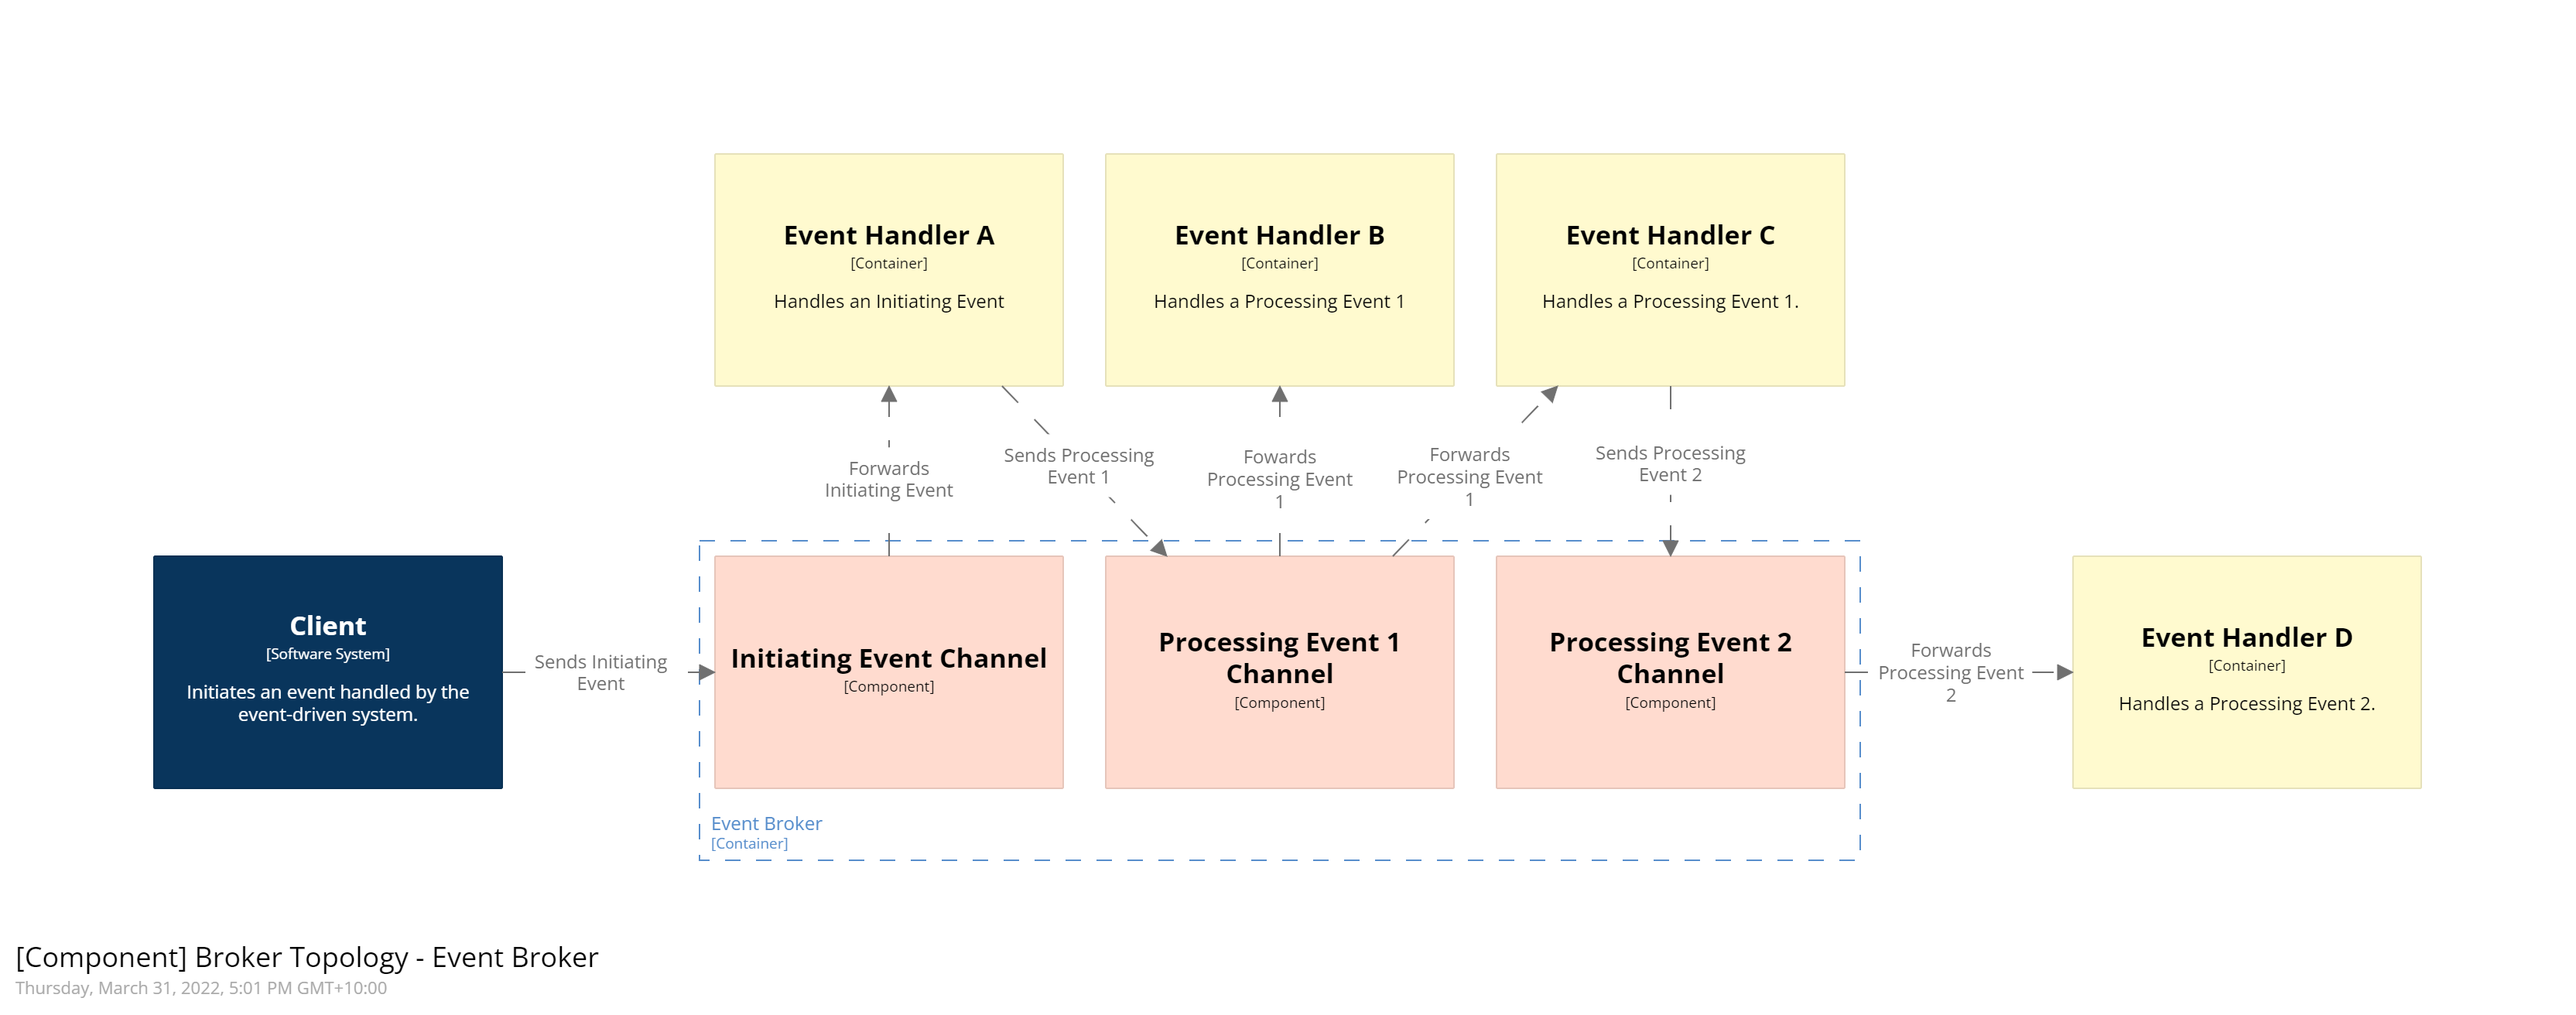
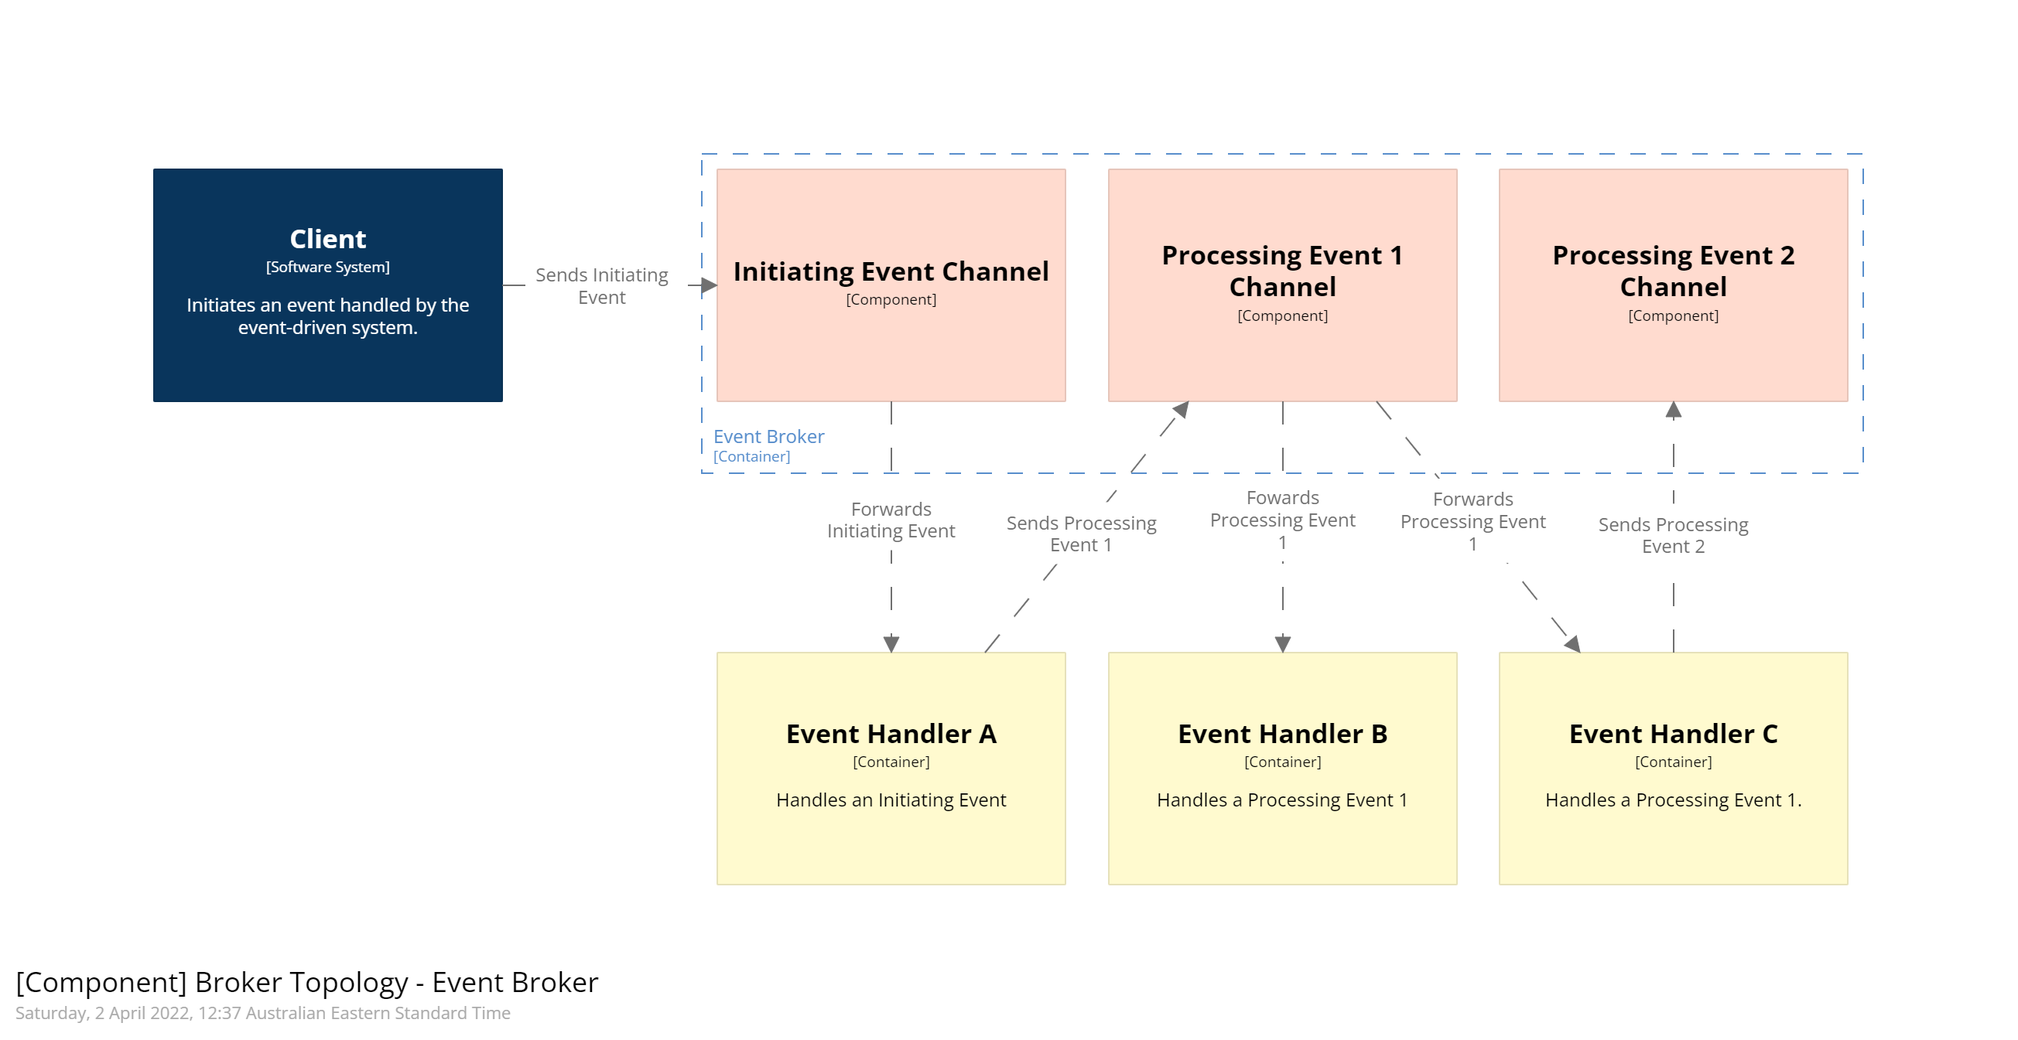
First draft of event-driven broker topology, aside from streams.

diff --git a/notes/event/content.tex b/notes/event/content.tex
@@ -4,20 +4,173 @@
 
 \maketitle
 
-\section{Introduction}
+\section{Introduction}\label{sec:intro}
 
 Event-driven is an asynchronous architectural style.
-It reacts to events, which is different to the common view of many designs which respond to requests.
+It reacts to events, which is different to the common procedural flow of control of many designs where messages are sent as requests.
+It is a distributed event handling system, which is conceptually similar to event handling used in many graphical user interface libraries.
 
 Events provide a mechanism to manage asynchronous communication.
 An event is sent to be handled, and the sender can continue with other tasks while the event is being processed.
-If necessary, the handler can send a message back to the sender indicating the result of the event processing.
+If necessary, an event handler can send an asynchronous message back to an event initiator indicating the result of the event processing.
 
 Each event handler can be implemented in its own independent execution environment.
 This allows each type of handler to be easily scaled to handle its load.
 Asynchronous communication means that event generators do not need to wait for the handler to process the event.
 Handlers can generate their own events to indicate what they have done.
 These events can be used to coordinate steps in a complex business process.
+
+\begin{figure}[h!]
+    \begin{adjustwidth}{-10mm}{-10mm}
+        \centering
+        \includegraphics[trim=195 195 195 195,clip,width=0.95\paperwidth]{diagrams/conceptual-architecture.png}
+    \end{adjustwidth}
+    \caption{Conceptual deployment structure of an event-driven architecture.}
+    \label{fig:conceptual-architecture}
+\end{figure}
+
+Figure \ref{fig:conceptual-architecture} shows the conceptual structure of an event-driven architecture.
+A client of some form sends the initiating event to a central event broker or mediator.
+That event is picked up by an event handler that processes the event.
+That may lead to the event handler generating a processing event to move to the next step of the process.
+The processing event is sent to the central broker and is picked up by another event handler.
+This continues until the business process is completed.
+
+There are two basic approaches to implementing an event-driven architecture.
+The terminology is that these are different \emph{topologies}, as they have different high-level structures.
+The \emph{broker topology} is the simpler of the two and is optimised for performance, responsiveness, scalability, extensibility, and low coupling.
+The \emph{mediator topology} is more complex but is designed to provide reliability, process control, and error handling.
+
+
+\section{Broker Topology}
+
+The broker topology consists of four elements.
+
+\begin{description}
+    \item[Initiating Event] starts the flow of events.
+    \item[Event Broker] has \emph{channels} that receive events waiting to be handled.
+    \item[Event Handler] accepts and processes events.
+    \item[Processing Event] sent by an event handler when it has finished processing an event.
+\end{description}
+
+\begin{figure}[h!]
+    \begin{adjustwidth}{-10mm}{-10mm}
+        \centering
+        \includegraphics[trim=195 195 195 195,clip,width=0.97\paperwidth]{diagrams/broker-components.png}
+    \end{adjustwidth}
+    \caption{Basic broker topology.}
+    \label{fig:broker-components}
+\end{figure}
+
+In figure \ref{fig:broker-components}, the \emph{Client} sends the \emph{Initiating Event} to the \emph{Initiating Event Channel} in the \emph{Event Broker}.
+\emph{Event Handler A} accepts the event and processes it.
+Upon completion of handling the \emph{Initiating Event},
+\emph{Event Handler A} sends \emph{Processing Event 1} to the appropriate channel in the event broker.
+\emph{Event Handlers B} and \emph{C} accept this processing event and perform their actions.
+When \emph{Event Handler C} finishes processing it sends \emph{Processing Event 2} to its channel.
+No event handler is designed to accept \emph{Processing Event 2}, so it is ignored.
+
+Different event channels in the event broker provide a simple mechanism to coordinate the flow of events in a business process.
+As shown in figure \ref{fig:broker-components}, there is a separate channel for each type of event.
+This allows event handlers to register to be notified of only the type of events they can process.
+This reduces the overhead of broadcasting events to handlers that cannot process them.
+The consequence is that event sources need to send their events to the correct channel.
+For a simple broker topology, this could be by sending event messages directly to a channel
+or, for better abstraction and reduced coupling, the event broker may implement a façade that directs events to the correct channel.
+
+\begin{definition}[Event Handler Cohesion Principle]\label{def:cohesion}
+    Each event handler is a simple cohesive unit that performs a single processing task.
+\end{definition}
+
+The \emph{event handler cohesion principle} minimises the complexity of each handler,
+and improves the ability of the system to scale only the tasks that need additional computing resources.
+It also makes it easier to design each handler to be independent of the other handlers, reducing overall system coupling.
+
+\subsection{Extensibility}\label{sec:extensibility}
+
+There may be multiple event handlers for a single type of event,
+shown by \emph{Processing Event 1} being sent to both \emph{Event Handler B} and \emph{C} in figure \ref{fig:broker-components}.
+This allows more than one action to be performed when an event is sent.
+This means that new event handlers can be added to the system as it evolves.
+A new feature can be added by implementing an event handler to do something new when an event is received by the event broker.
+
+In figure \ref{fig:broker-components}, when \emph{Event Handler C} finishes processing its event it sends \emph{Processing Event 2} to the event broker.
+The diagram indicates that the system does not handle the event.
+The purpose of doing this is to make it easier to extend the system.
+Currently, the system may not need to do anything when \emph{Event Handler C} finishes processing,
+but because it sends an event to indicate it has finished it means other tasks can be added to the system following \emph{Event Handler C}.
+Because event handlers are independent of each other, \emph{Event Handler C} does not need to be modified to cater for this later addition of functionality.
+
+If there are events that are not handled by the system, the event broker façade can ignore them, it does not need a channel to manage them.
+If the system is extended and needs to process one of the ignored events, the event broker can create a new channel to manage them.
+
+\emph{Event Handler B}, in figure \ref{fig:broker-components}, does not send an event when it finishes processing the event it accepted.
+This is a valid design choice when implementing the system,
+if there is nothing foreseeable that might need to know when \emph{Event Handler B} is finished processing.
+The drawback is that if the system later needs to do something else when \emph{Event Handler B} is finished,
+it will need to be modified to send an event to the event broker.
+The tradeoff is reducing asynchronous communication traffic with unnecessary events, versus providing easy extensibility later.
+
+\subsection{Scalability}
+
+As was described in section \ref{sec:intro}, the broker topology is optimised for performance.
+Each event handler is a separate container that can be deployed independently of other handlers.
+A load balancer and an automated scaling mechanism ensures that each event handler can scale to manage its load.
+
+There may be multiple clients sending events to be processed,
+and each event handler may itself be a source of events.
+This requires the event broker and its channels be able to handle the event traffic load.
+The event broker itself can be deployed on multiple compute nodes, with its own load balancing and auto-scaling.
+The challenge is to implement this in such a way that the event handlers do not need to know about the event broker's deployment structure.
+
+A simple distributed event broker could deploy each channel on a separate compute node.
+The event broker façade is deployed on its own node and manages receiving events and sending them to the appropriate channel.
+The façade also manages how event handlers register to receive notification of events from channels.
+This works until the event traffic to the façade or a single channel exceeds their capacity.
+
+A more robust approach, which scales to very high traffic levels, is to federate the event broker.
+This allows the façade and channels to be distributed across multiple nodes
+but provides an interface that the clients and event handlers can treat as a single access point.
+The complexity of implementing a federated computing system is beyond the scope of this course.
+There are several libraries (e.g. ActiveMQ or RabbitMQ)
+and cloud-computing platforms (e.g. AWS SQS, AWS MQ or Google Cloud Pub/Sub) that provide this functionality.
+They can still be used when the system does not need to scale to a federated event broker,
+as they provide the underlying implementation for the event broker.
+
+\subsection{Queues}
+
+The other issue that the channels need to manage to allow scalability is holding events until they are processed by an event handler.
+The simple approach is that a channel implements a queue.
+Events are added to the end of the queue as they are received.
+When an event reaches the front of the queue, all the event handlers for the channel are notified that the event is available.
+The channel queue needs to be configured to cater for different implementation choices.
+The simple option is that when an event handler accepts the event, it is removed from the queue.
+This means that only one type of event handler listening to the channel will process the event.
+
+If the system needs all the different types of event handlers to process the event,
+the queue needs to be configured so that the event is not removed from the queue until all the event handlers have retrieved it.
+This can be implemented in the queue by having multiple \emph{front of queue pointers}, one for each type of event handler listening to the channel.
+This allows different event handlers to process through events in the queue at different rates.
+The queue should be implemented to pass queue size or the amount of time events are in the queue to the auto-scaling mechanism for each event handler.
+This can be used as part of the logic to determine when to deploy new event handlers, or to scale-back when traffic decreases.
+
+To increase reliability, the queue can be implemented to only remove the event from the queue once the event handler has finished processing it,
+rather than when it has been received by the handler.
+This allows another event handler to process the event if the first event handler to accept the event fails.
+A timeout mechanism can be used to provide this functionality.
+If the queue does not receive notification that the event has been processed within a certain amount of time,
+it notifies the event handlers that the event is available.
+
+Another consideration to increase reliability is dealing with when the event broker, or one of its queues, fails.
+If queues are implemented as in-memory queues, events in the queue will be lost when the event broker or queue fails.
+Queues can be implemented to persistently store events until they have been processed.
+A federated event broker will further improve reliability by making it less likely that a single queue will fail between receiving an event and storing it persistently.
+
+\subsection{Streams}
+
+
+
+\subsection{Sahara Example}
 
 The service-based architecture example for the Sahara eCommerce system is designed to perform synchronous processing of requests.
 A customer \emph{requests} to view a product's details through a REST API and receives a response with the result.
@@ -34,40 +187,6 @@ Multiple customers could submit bids for the same item at almost the same time (
 These bid events are queued to be processed in the order they are received.
 This queuing mechanism allows event handlers to process messages that arrive faster than the handler can process them.
 It assumes that the message load will reduce in time and that the event handler will process all messages in the queue.
-
-There are two basic approaches to implementing an event-driven architecture.
-The terminology is that these are different \emph{topologies}, as they have different high-level structures.
-The \emph{broker topology} is the simpler of the two and is optimised for performance, responsiveness, scalability, extensibility, and low coupling.
-The \emph{mediator topology} is more complex but is designed to provide reliability, process control, and error handling.
-
-
-\section{Broker Topology}
-
-The broker topology consists of four elements.
-
-\begin{description}
-    \item[Initiating Event] starts the flow of events.
-    \item[Event Broker] has \emph{channels} that receive events waiting to be handled.
-    \item[Event Handler] accepts and processes events.
-    \item[Processing Events] sent by an event handler when it has finished processing an event.
-\end{description}
-
-\begin{figure}[h!]
-    \begin{adjustwidth}{-10mm}{-10mm}
-        \centering
-        \includegraphics[trim=195 195 195 195,clip,width=0.97\paperwidth]{diagrams/broker-components.png}
-    \end{adjustwidth}
-    \caption{Basic broker topology.}
-    \label{fig:broker-components}
-\end{figure}
-
-In figure \ref{fig:broker-components}, the \emph{Client} sends the \emph{Initiating Event} to the \emph{Initiating Event Channel} in the \emph{Event Broker}.
-\emph{Event Handler A} accepts the event and processes it.
-Upon completion of handling the \emph{Initiating Event},
-\emph{Event Handler A} sends \emph{Processing Event 1} to the appropriate channel in the event broker.
-Event handlers B and C accept this processing event and perform their actions.
-When event handler C finishes processing it sends Processing Event 2 to its channel.
-Event handler D accepts this event and performs its processing.
 
 
 \section{Design Considerations}\label{sec:design-considerations}
